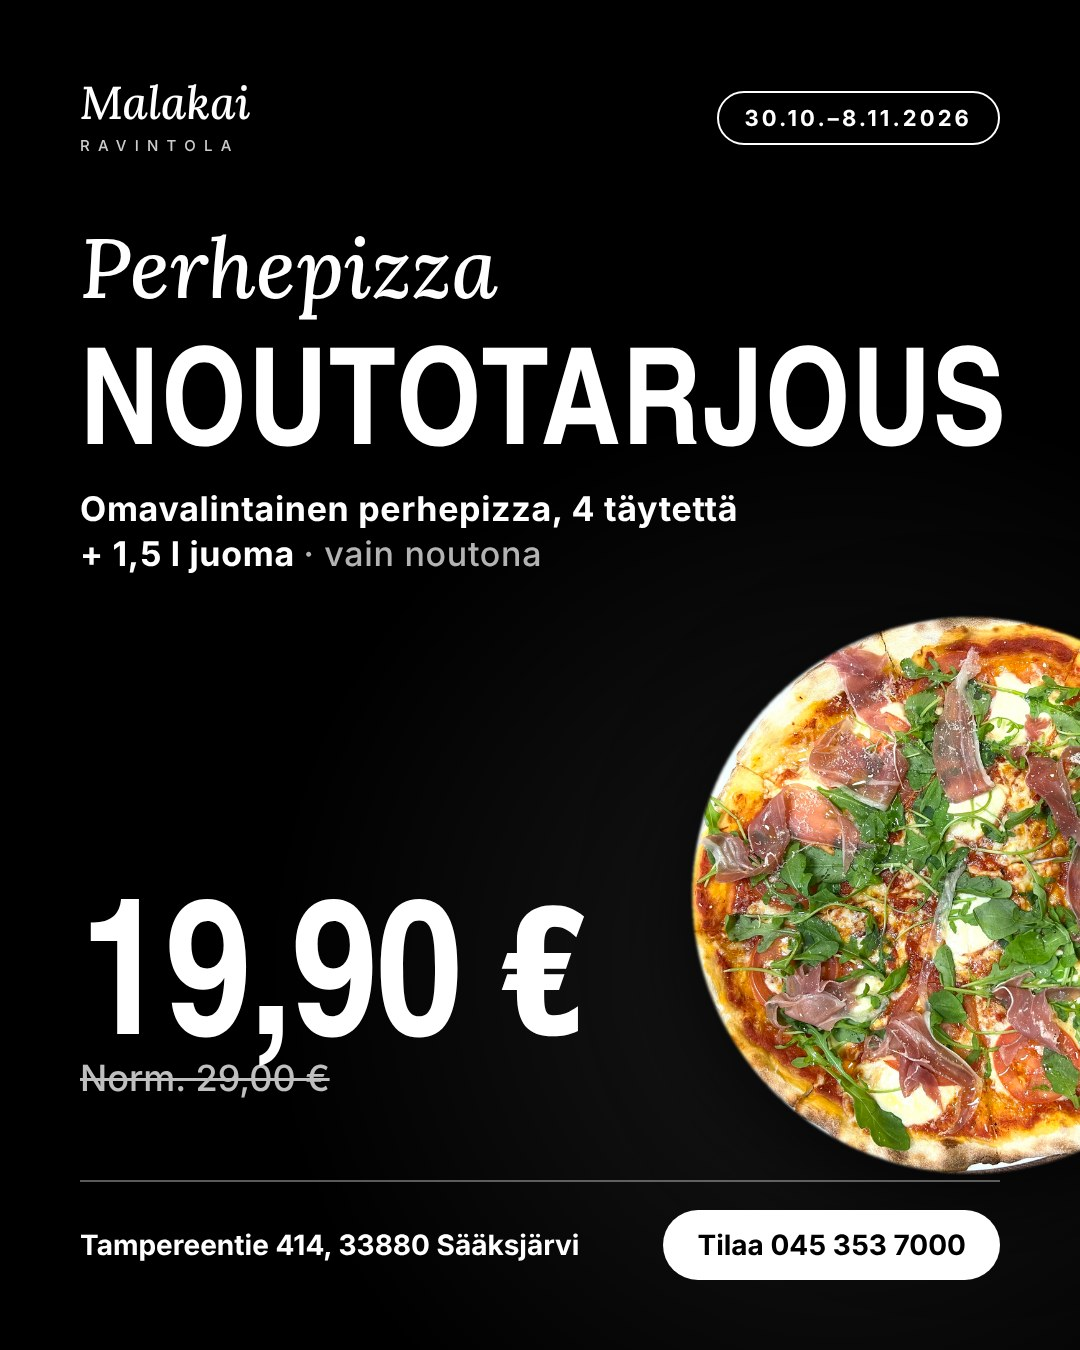
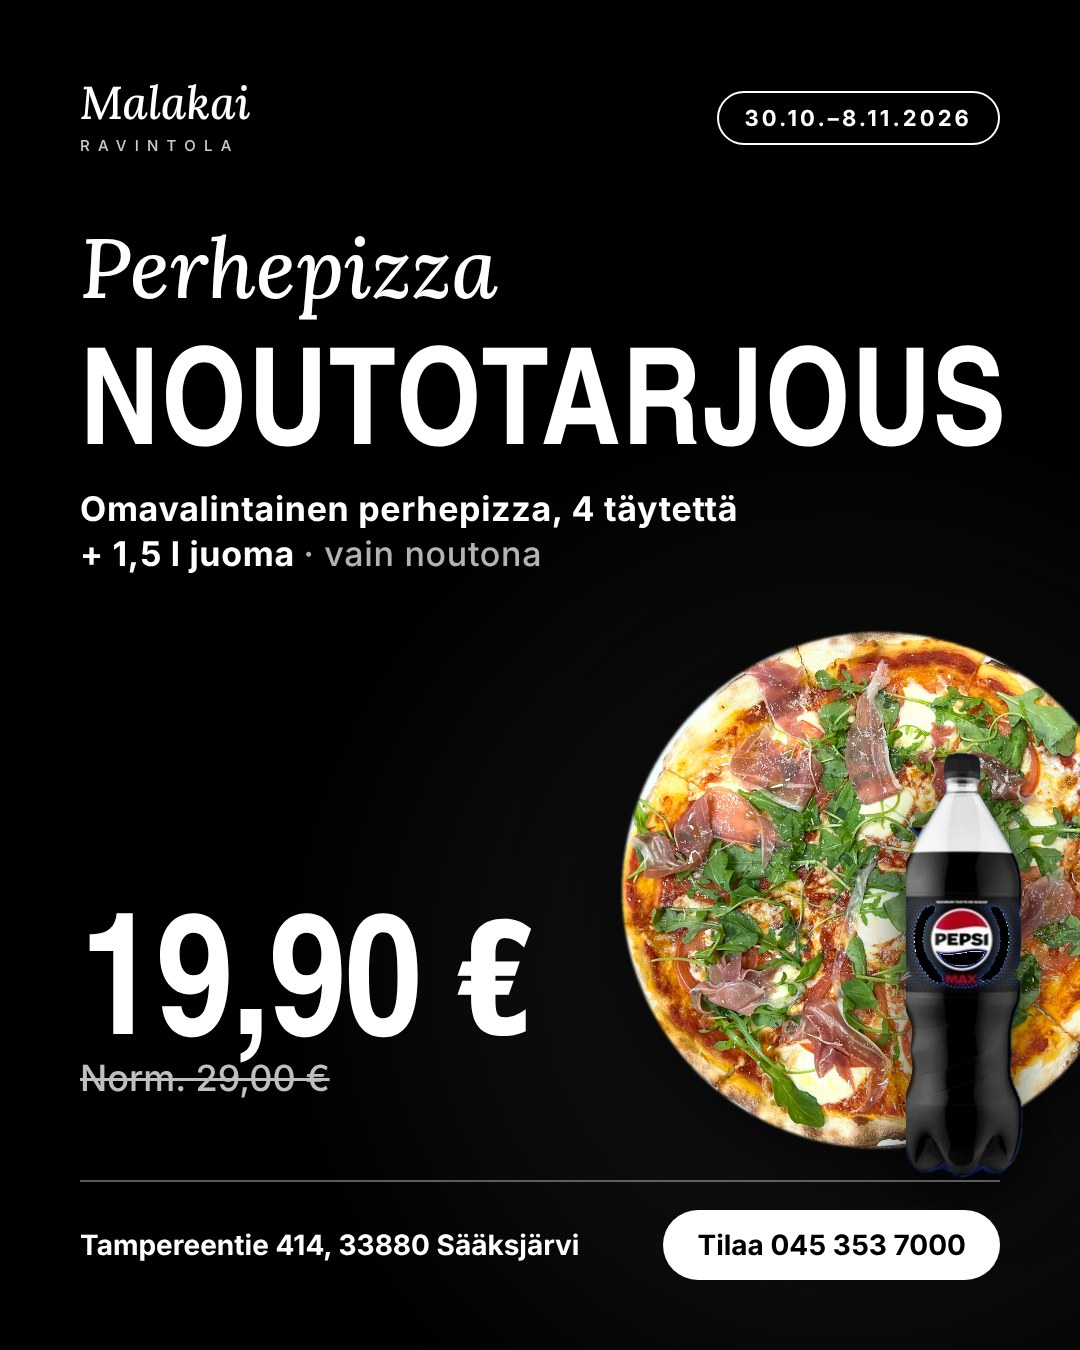
Tarjouskuvaan 1,5 l juomapullo takaisin
Claude-Session: https://claude.ai/code/session_019QJ8uAZrjsHY5GBSvSU4sp

Changed region(s): [[0.0611, 0.4356, 1.0, 0.8711]]

diff --git a/index.html b/index.html
@@ -3,7 +3,7 @@
 <title>Malakai Ravintola Lempäälä | Pizzabuffet, kebab, burgerit ja siivet</title><meta name="description" content="Malakai Ravintola, Tampereentie 414 Lempäälä. Pizzabuffet 13,70 € / 14,90 €, päivän pizza 9,90 €, kebabit, burgerit, Sticky Fingers ja Hot Wings. Varaa pöytä: 045 353 7000.">
 <meta property="og:title" content="Malakai Ravintola Lempäälä | Pizzabuffet, kebab, burgerit ja siivet"><meta property="og:description" content="Malakai Ravintola, Tampereentie 414 Lempäälä. Pizzabuffet 13,70 € / 14,90 €, päivän pizza 9,90 €, kebabit, burgerit, Sticky Fingers ja Hot Wings. Varaa pöytä: 045 353 7000."><meta property="og:image" content="media/kuvat/hero-levea.jpg"><meta property="og:locale" content="fi_FI">
 <link href="https://fonts.googleapis.com/css2?family=Anton&family=Inter:wght@400;500;700&family=Playfair+Display:wght@500;600&display=swap" rel="stylesheet">
-<link rel="stylesheet" href="styles.css?v=1793561451"><link rel="stylesheet" href="home.css?v=1793561451">
+<link rel="stylesheet" href="styles.css?v=1793561642"><link rel="stylesheet" href="home.css?v=1793561642">
 <script type="application/ld+json">{"@context":"https://schema.org","@type":"Restaurant","name":"Malakai Ravintola","address":{"@type":"PostalAddress","streetAddress":"Tampereentie 414","postalCode":"33880","addressLocality":"Lempäälä","addressCountry":"FI"},"telephone":"+358453537000","email":"malakairavintola@gmail.com","url":"https://malakairavintola.fi","servesCuisine":["Pizza","Kebab","Burgerit"],"openingHours":["Mo-Th 10:30-20:00","Fr 10:30-21:00","Sa 11:00-21:00","Su 12:00-20:00"]}</script>
 </head>
 <body class="home">
@@ -162,5 +162,5 @@
 <div class="fcopy">© 2025 Malakai Ravintola</div>
 </div></footer>
 <div class="bar"><a class="btn" href="tel:+358453537000">Soita</a><a class="btn r" href="https://order.site/malakai-ravintola" target="_blank" rel="noopener">Tilaa</a><a class="btn y" href="#varaa">Varaa pöytä</a></div>
-<script src="data.js?v=1793561451"></script><script src="config.js?v=1793561451"></script><script src="site.js?v=1793561451"></script>
+<script src="data.js?v=1793561642"></script><script src="config.js?v=1793561642"></script><script src="site.js?v=1793561642"></script>
 </body></html>

diff --git a/data.js b/data.js
@@ -560,7 +560,7 @@ window.SITE=/*BEGIN*/{
    "text": "Omavalintainen perhepizza, 4 täytettä + 1,5 l juoma. Vain noutona.",
    "price": "19,90 €",
    "was": "29,00 €",
-   "image": "media/kuvat/tarjous-perhepizza.jpg",
+   "image": "media/kuvat/tarjous-perhepizza.jpg?v=2",
    "from": "2026-10-30",
    "until": "2026-11-08",
    "cta": "Tilaa 045 353 7000",
